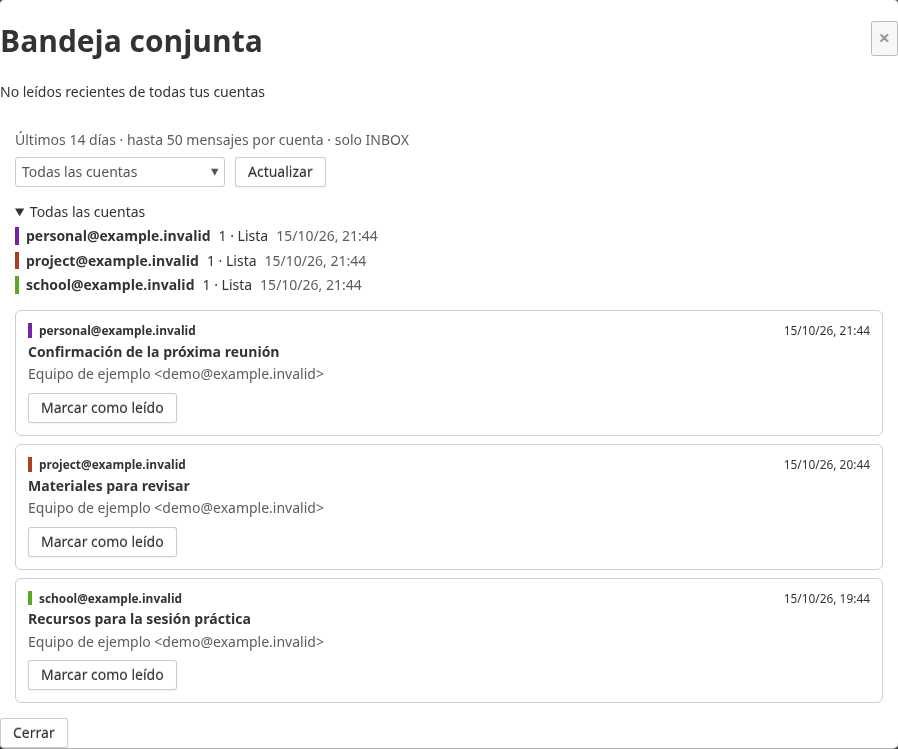
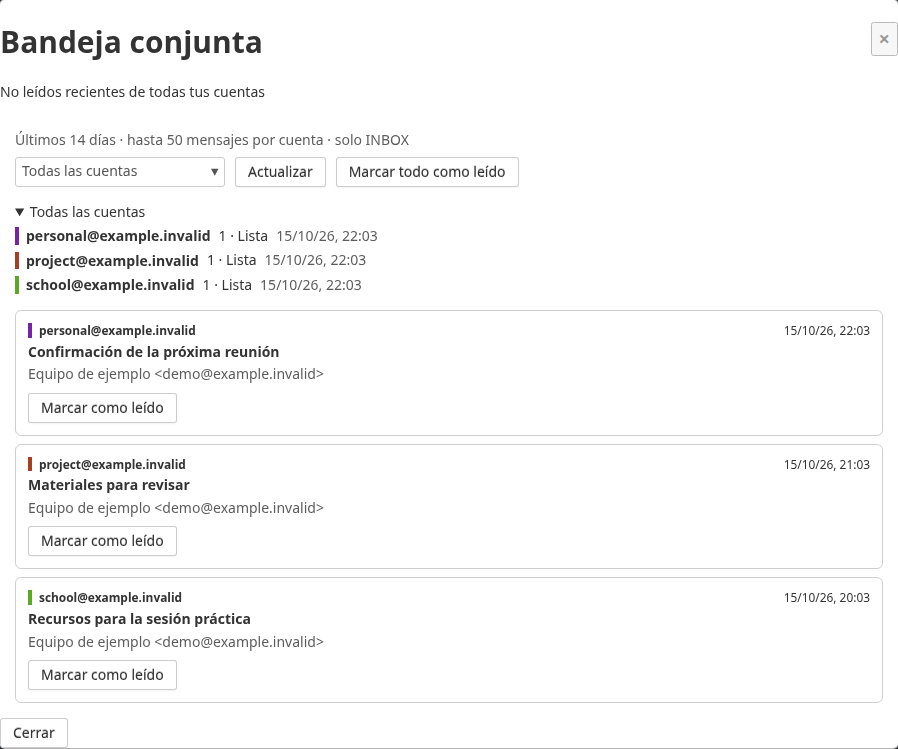
Add mark all as read to unified inbox

diff --git a/unified-inbox.js b/unified-inbox.js
@@ -12,7 +12,11 @@
             limits: 'Últimos {days} días · hasta {limit} mensajes por cuenta · solo INBOX',
             ready: 'Lista', more: 'Hay más mensajes que el límite mostrado.', opening: 'Abriendo correo…',
             markRead: 'Marcar como leído', marking: 'Marcando como leído…', marked: 'Correo marcado como leído.',
-            markError: 'No se pudo marcar como leído. Actualiza la bandeja y vuelve a intentarlo.'
+            markError: 'No se pudo marcar como leído. Actualiza la bandeja y vuelve a intentarlo.',
+            markAll: 'Marcar todo como leído',
+            confirmAll: '¿Marcar como leídos los {count} mensajes visibles de «{scope}»? Solo se incluyen los mensajes de esta vista.',
+            bulkProgress: 'Procesados {done} de {total}…',
+            bulkDone: 'Marcados como leídos: {success}. Sin marcar: {failed}.'
         },
         en: {
             title: 'Unified inbox', subtitle: 'Recent unread messages from all your accounts',
@@ -23,7 +27,11 @@
             limits: 'Last {days} days · up to {limit} messages per account · INBOX only',
             ready: 'Ready', more: 'There are more messages than the display limit.', opening: 'Opening message…',
             markRead: 'Mark as read', marking: 'Marking as read…', marked: 'Message marked as read.',
-            markError: 'Could not mark as read. Refresh the inbox and try again.'
+            markError: 'Could not mark as read. Refresh the inbox and try again.',
+            markAll: 'Mark all as read',
+            confirmAll: 'Mark the {count} visible messages in “{scope}” as read? Only messages in this view are included.',
+            bulkProgress: 'Processed {done} of {total}…',
+            bulkDone: 'Marked as read: {success}. Not marked: {failed}.'
         },
         ca: {
             title: 'Safata conjunta', subtitle: 'No llegits recents de tots els teus comptes',
@@ -34,7 +42,11 @@
             limits: 'Últims {days} dies · fins a {limit} missatges per compte · només INBOX',
             ready: 'Preparat', more: 'Hi ha més missatges que el límit mostrat.', opening: 'Obrint correu…',
             markRead: 'Marcar com a llegit', marking: 'Marcant com a llegit…', marked: 'Correu marcat com a llegit.',
-            markError: 'No s’ha pogut marcar com a llegit. Actualitza la safata i torna-ho a provar.'
+            markError: 'No s’ha pogut marcar com a llegit. Actualitza la safata i torna-ho a provar.',
+            markAll: 'Marcar-ho tot com a llegit',
+            confirmAll: 'Vols marcar com a llegits els {count} missatges visibles de «{scope}»? Només s’inclouen els missatges d’aquesta vista.',
+            bulkProgress: 'Processats {done} de {total}…',
+            bulkDone: 'Marcats com a llegits: {success}. Sense marcar: {failed}.'
         }
     };
     const lang = () => String(rl.settings.get('clientLanguage') || document.documentElement.lang || 'en').slice(0, 2);
@@ -77,6 +89,7 @@
             this.refresh = () => this.load(true);
             this.openItem = item => this.open(item);
             this.markRead = item => this.mark(item);
+            this.markAllRead = () => this.markAll();
         }
 
         beforeShow() { this.filter(''); this.load(false); }
@@ -121,17 +134,51 @@
             }
         }
 
+        async applyRead(item, generation) {
+            await rpc('UnifiedInboxMarkRead', {email: item.account, uid: item.uid,
+                uidvalidity: item.uidvalidity, message_id: item.message_id});
+            if (generation !== this.generation) return;
+            this.items(this.items().filter(row => row !== item));
+            const account = this.accounts().find(row => row.email === item.account);
+            if (account) account.status(`${this.items().filter(row => row.account === item.account).length} · ${t('ready')}`);
+        }
+
+        async markAll() {
+            if (this.marking() || this.opening() || this.busy()) return;
+            const items = this.visibleItems().slice();
+            if (!items.length || !window.confirm(t('confirmAll')
+                .replace('{count}', items.length).replace('{scope}', this.filter() || t('all')))) return;
+            const generation = this.generation;
+            let next = 0, success = 0, failed = 0;
+            this.marking(true); this.error(''); this.notice('');
+            const worker = async () => {
+                while (next < items.length && generation === this.generation) {
+                    const item = items[next++];
+                    try { await this.applyRead(item, generation); ++success; }
+                    catch (error) { ++failed; }
+                    if (generation === this.generation) this.notice(t('bulkProgress')
+                        .replace('{done}', success + failed).replace('{total}', items.length));
+                }
+            };
+            try {
+                await Promise.all([worker(), worker()]);
+                if (generation === this.generation) {
+                    this.notice(t('bulkDone').replace('{success}', success).replace('{failed}', failed));
+                    if (failed) this.error(t('markError'));
+                }
+            } finally {
+                this.marking(false);
+                if (generation !== this.generation && this.modalVisible?.()) this.load(true);
+            }
+        }
+
         async mark(item) {
             if (this.marking() || this.opening()) return;
             this.marking(true); this.error(''); this.notice('');
             const generation = this.generation;
             try {
-                await rpc('UnifiedInboxMarkRead', {email: item.account, uid: item.uid,
-                    uidvalidity: item.uidvalidity, message_id: item.message_id});
+                await this.applyRead(item, generation);
                 if (generation !== this.generation) return;
-                this.items(this.items().filter(row => row !== item));
-                const account = this.accounts().find(row => row.email === item.account);
-                if (account) account.status(`${this.items().filter(row => row.account === item.account).length} · ${t('ready')}`);
                 this.notice(t('marked'));
             } catch (error) {
                 if (generation === this.generation) this.error(t('markError'));

diff --git a/templates/PopupsUnifiedInbox.html b/templates/PopupsUnifiedInbox.html
@@ -9,8 +9,9 @@
         <p class="alert alert-error" role="alert" data-bind="visible: error, text: error"></p>
         <p class="alert alert-success" role="status" data-bind="visible: notice, text: notice"></p>
         <div class="unified-inbox-controls">
-            <select data-bind="options: filterOptions, optionsText: 'label', optionsValue: 'email', value: filter, attr: {'aria-label': t('all')}"></select>
+            <select data-bind="options: filterOptions, optionsText: 'label', optionsValue: 'email', value: filter, disable: marking() || opening(), attr: {'aria-label': t('all')}"></select>
             <button type="button" class="btn" data-bind="click: refresh, disable: busy() || opening() || marking(), text: t('refresh')"></button>
+            <button type="button" class="btn unified-inbox-read-all" data-bind="click: markAllRead, disable: busy() || opening() || marking() || !visibleItems().length, text: t('markAll')"></button>
             <span role="status" data-bind="visible: busy, text: t('loading')"></span>
             <span role="status" data-bind="visible: opening, text: t('opening')"></span>
             <span role="status" data-bind="visible: marking, text: t('marking')"></span>

diff --git a/tests/demo.py b/tests/demo.py
@@ -58,5 +58,19 @@ with sync_playwright() as p:
     page.wait_for_function("document.querySelectorAll('.unified-inbox-item').length === 2")
     assert page.url == before
     assert page.locator('.unified-inbox-panel .alert-success').inner_text() == 'Correo marcado como leído.'
+    page.once('dialog', lambda dialog: dialog.dismiss())
+    page.locator('.unified-inbox-read-all').click()
+    assert page.locator('.unified-inbox-item').count() == 2
+    page.locator('.unified-inbox-controls select').select_option('school@example.invalid')
+    page.once('dialog', lambda dialog: dialog.accept())
+    page.locator('.unified-inbox-read-all').click()
+    page.wait_for_function("document.querySelectorAll('.unified-inbox-item').length === 0")
+    page.locator('.unified-inbox-controls select').select_option('')
+    assert page.locator('.unified-inbox-item').count() == 1
+    page.once('dialog', lambda dialog: dialog.accept())
+    page.locator('.unified-inbox-read-all').click()
+    page.wait_for_function("document.querySelectorAll('.unified-inbox-item').length === 0")
+    assert page.locator('.unified-inbox-read-all').is_disabled()
+    assert page.url == before
     browser.close()
-    print('OK: synthetic screenshots and mark-read button; no navigation or real-mail changes')
+    print('OK: synthetic screenshots, individual/bulk read, cancellation and account filter; no real-mail changes')

diff --git a/index.php b/index.php
@@ -7,7 +7,7 @@ class UnifiedInboxPlugin extends \RainLoop\Plugins\AbstractPlugin
 {
     public const NAME = 'Unified Inbox';
     public const AUTHOR = 'Samuel Soriano';
-    public const VERSION = '0.2.0';
+    public const VERSION = '0.3.0';
     public const RELEASE = '2026-10-15';
     public const REQUIRED = '2.38.2';
     public const LICENSE = 'AGPL-3.0';

diff --git a/README.md b/README.md
@@ -17,6 +17,13 @@ it or switching accounts. The row disappears and its displayed account count
 updates only after the server confirms the read flag. On error the row stays
 visible; refresh and retry. This action synchronizes with other IMAP clients.
 
+**Mark all as read** applies to the current visible list and respects the account
+filter and date/count limits. A confirmation states the account scope and message
+count. Progress and the final success/failure counts appear in the panel; failed
+messages stay visible. Closing the panel stops scheduling further messages;
+requests already in flight can still complete. Messages outside the current view
+are not included. The button is disabled while loading or when the view is empty.
+
 Defaults: last 14 days, up to 50 messages per account, 180-second cache. These
 limits are visible in the panel; this is not an exhaustive view of all mail or
 all unread messages. The per-account cap takes the highest UIDs (most recently
@@ -96,6 +103,12 @@ los servidores aunque exista caché. Al pulsar un mensaje se abre en su cuenta.
 Cada mensaje incluye **Marcar como leído**: actúa en su propia cuenta sin abrir
 el correo ni cambiar de cuenta. Tras confirmarlo el servidor, desaparece de la
 lista y se actualiza el contador. Si falla, permanece visible para reintentar.
+
+**Marcar todo como leído** actúa sobre los mensajes visibles y respeta el filtro
+de cuenta y los límites de fecha y cantidad. Antes de empezar pide confirmación
+con el número de mensajes y la cuenta seleccionada. Muestra el progreso y conserva
+los mensajes que no se puedan marcar. Al cerrar el panel se dejan de iniciar
+operaciones nuevas; las que ya estén en curso pueden terminar.
 
 Por defecto muestra los últimos **14 días**, hasta **50 mensajes por cuenta**,
 con una caché de **3 minutos**. Los límites se indican en el panel. Consultar la

diff --git a/docs/VERIFICATION.md b/docs/VERIFICATION.md
@@ -1,5 +1,17 @@
 # Verification — 2026-10-15, version 0.1.4
 
+## Mark all as read — version 0.3.0
+
+- JavaScript tests cover cancellation without writes, account-filter scope,
+  partial failures, retry across accounts and closing during a batch. The batch
+  uses the existing authorized, identity-checked per-message endpoint with at
+  most two concurrent requests. Failed rows remain visible.
+- Chromium tests with synthetic data cover the actual bulk button, dismissal of
+  its confirmation, accepting a filtered batch, accepting the remaining all-account
+  batch and disabling the button on an empty view. No real unread messages are
+  changed by these tests. Desktop/mobile demo screenshots were regenerated.
+- Existing PHP cache/backend tests and JavaScript syntax checks pass.
+
 ## Mark as read — version 0.2.0
 
 - PHP tests verify that a linked inactive account can mark only the resolved UID

diff --git a/CHANGELOG.md b/CHANGELOG.md
@@ -1,5 +1,13 @@
 # Changelog
 
+## 0.3.0 — 2026-10-15
+
+- Add **Mark all as read** for the currently visible messages, respecting the
+  account filter and the displayed date/count limits. Confirm the scope and count
+  before starting, show progress and report partial failures without removing
+  failed messages. Closing the panel stops scheduling further messages; requests
+  already in flight finish normally.
+
 ## 0.2.0 — 2026-10-15
 
 - Add a per-message **Mark as read** button, without switching accounts or opening
